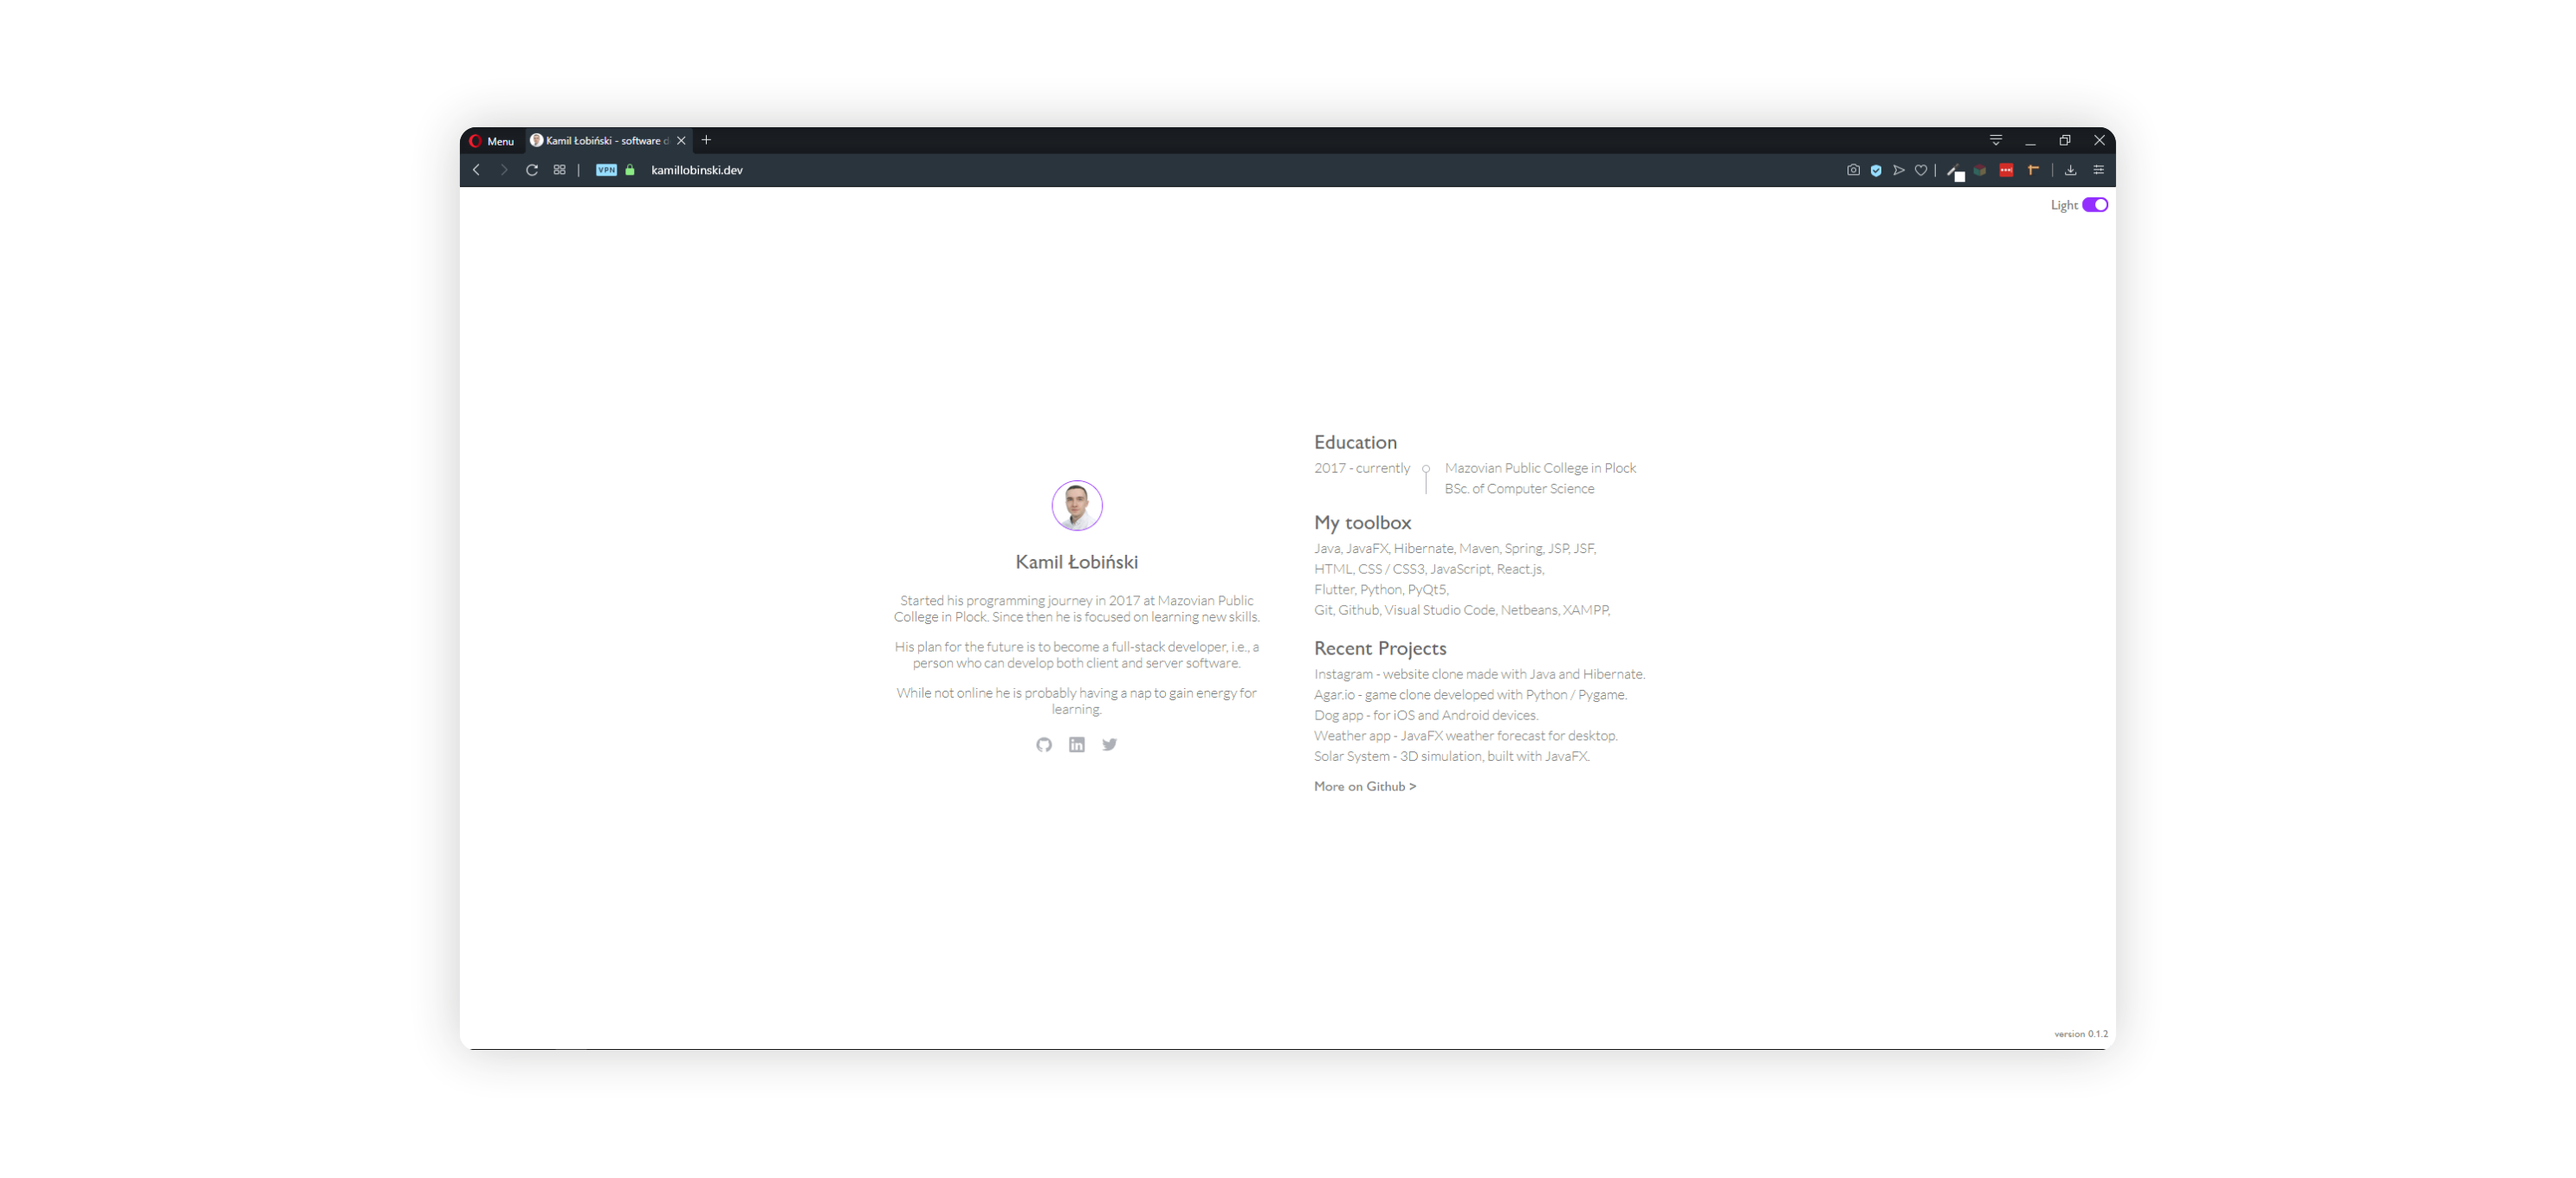
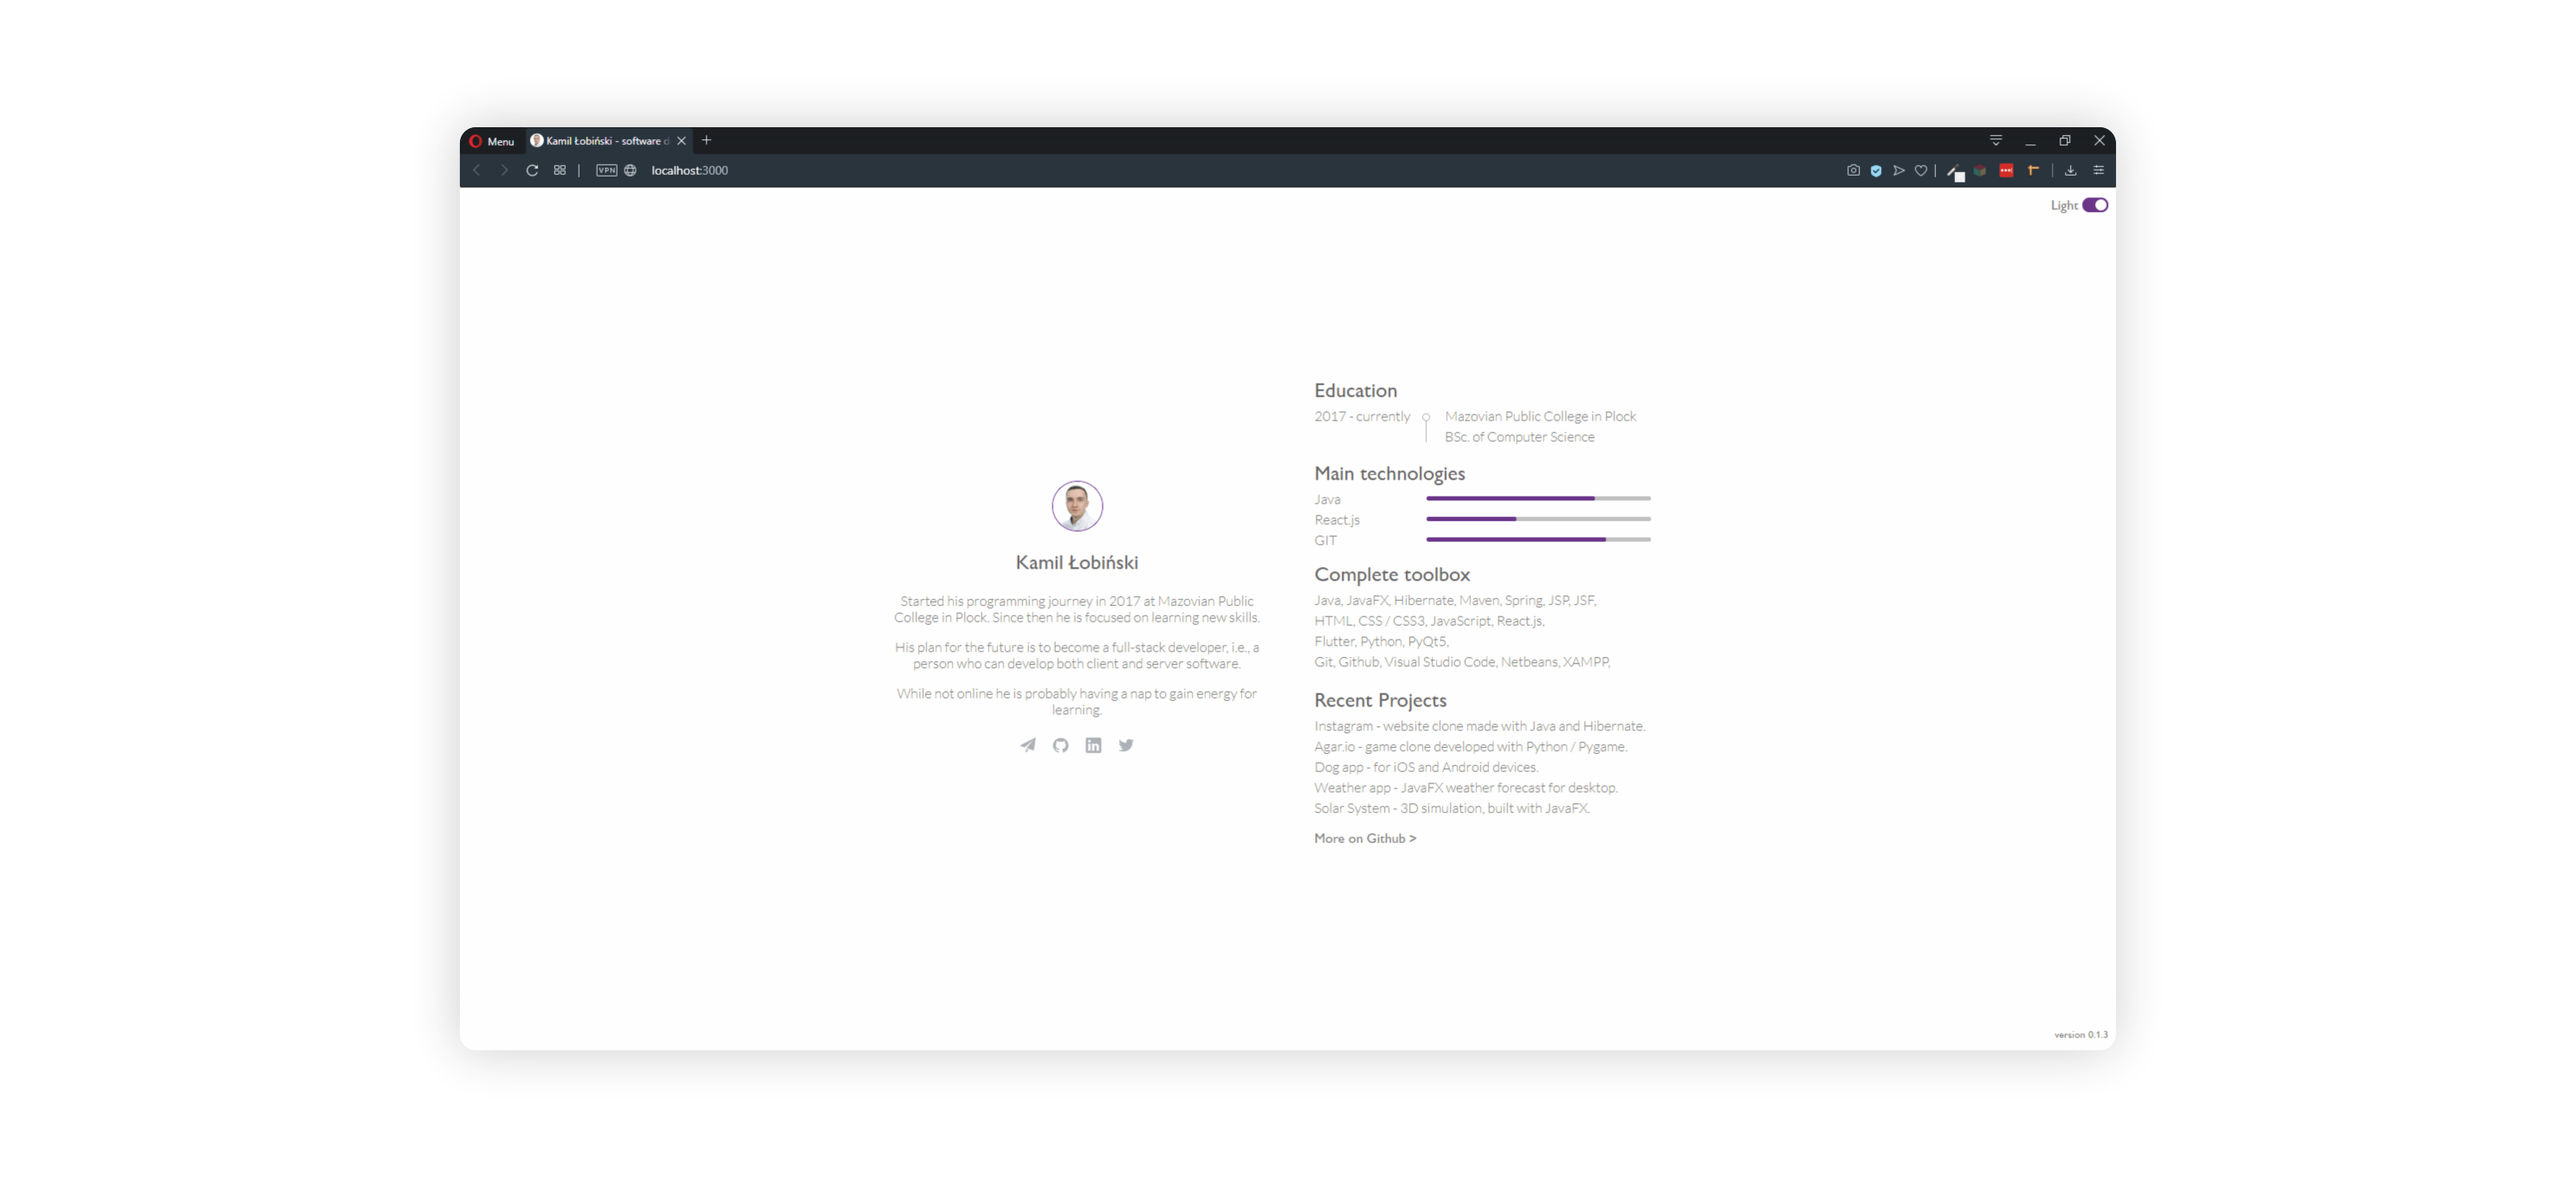
Added section for main technologies

diff --git a/src/components/Toolbox.js b/src/components/Toolbox.js
@@ -10,7 +10,7 @@ const toolboxItemFirst = [
   "Maven",
   "Spring",
   "JSP",
-  "JSF"
+  "JSF",
 ];
 const toolboxItemSecond = ["HTML", "CSS / CSS3", "JavaScript", "React.js"];
 const toolboxItemThird = ["Flutter", "Python", "PyQt5"];
@@ -19,7 +19,7 @@ const toolboxItemFourth = [
   "Github",
   "Visual Studio Code",
   "Netbeans",
-  "XAMPP"
+  "XAMPP",
 ];
 
 class Toolbox extends React.Component {
@@ -30,33 +30,33 @@ class Toolbox extends React.Component {
       toolboxItemFirst: toolboxItemFirst,
       toolboxItemSecond: toolboxItemSecond,
       toolboxItemThird: toolboxItemThird,
-      toolboxItemFourth: toolboxItemFourth
+      toolboxItemFourth: toolboxItemFourth,
     };
   }
 
   render() {
     return (
       <div className="toolbox">
-        <Title content="My toolbox" />
+        <Title content="Complete toolbox" />
 
         <p className="toolbox-item">
-          {this.state.toolboxItemFirst.map(item => (
+          {this.state.toolboxItemFirst.map((item) => (
             <Tool key={item} content={item} />
           ))}
         </p>
 
         <p className="toolbox-item">
-          {this.state.toolboxItemSecond.map(item => (
+          {this.state.toolboxItemSecond.map((item) => (
             <Tool key={item} content={item} />
           ))}
         </p>
         <p className="toolbox-item">
-          {this.state.toolboxItemThird.map(item => (
+          {this.state.toolboxItemThird.map((item) => (
             <Tool key={item} content={item} />
           ))}
         </p>
         <p className="toolbox-item">
-          {this.state.toolboxItemFourth.map(item => (
+          {this.state.toolboxItemFourth.map((item) => (
             <Tool key={item} content={item} />
           ))}
         </p>

diff --git a/src/components/TechnologyKnowledge.js b/src/components/TechnologyKnowledge.js
@@ -1,0 +1,33 @@
+import React from "react";
+import Title from "./Title";
+import Progressbar from "./ProgressBar";
+import "../style/TechnologyKnowledge.css";
+
+const technologyKnowledgeTitle = "Main technologies";
+var javaProgressbarValue = "75%";
+var reactProgressbarValue = "40%";
+var gitProgressbarValue = "80%";
+
+class TechnologyKnowledge extends React.Component {
+  render() {
+    return (
+      <div className="technology-knowledge">
+        <Title content={technologyKnowledgeTitle} />
+        <div className="technology-knowledge-item">
+          <span className="technology-knowledge-name">Java</span>
+          <Progressbar value={javaProgressbarValue} />
+        </div>
+        <div className="technology-knowledge-item">
+          <span className="technology-knowledge-name">React.js</span>
+          <Progressbar value={reactProgressbarValue} />
+        </div>
+        <div className="technology-knowledge-item">
+          <span className="technology-knowledge-name">GIT</span>
+          <Progressbar value={gitProgressbarValue} />
+        </div>
+      </div>
+    );
+  }
+}
+
+export default TechnologyKnowledge;

diff --git a/src/style/TechnologyKnowledge.css b/src/style/TechnologyKnowledge.css
@@ -1,0 +1,31 @@
+@import url("../utils/global.css");
+
+.technology-knowledge {
+  width: 430px;
+  margin-top: 18px;
+}
+
+.technology-knowledge-item {
+  display: flex;
+  align-items: center;
+  color: var(--text-color);
+  margin: 0;
+  margin-top: 5px;
+  font-size: 16px;
+  font-weight: 300;
+  font-family: "Lato", sans-serif;
+}
+
+.technology-knowledge-name {
+  width: 100%;
+  max-width: 100%;
+  overflow: hidden;
+  text-overflow: ellipsis;
+  white-space: nowrap;
+}
+
+@media only screen and (max-width: 500px) {
+  .technology-knowledge {
+    width: 90vw;
+  }
+}

diff --git a/src/style/Progressbar.css b/src/style/Progressbar.css
@@ -1,0 +1,31 @@
+.progressbar {
+  width: 100%;
+}
+
+.progressbar-back {
+  width: 260px;
+  height: 5px;
+  float: right;
+  margin-right: 40px;
+  border-radius: 4px;
+  background-color: var(--progress-color);
+  overflow: hidden;
+}
+
+.progressbar-fill {
+  width: 0;
+  height: 5px;
+  max-width: 100%;
+  border-radius: 4px;
+  background-color: var(--progress-fill);
+  animation: slidein 3s ease;
+}
+
+@keyframes slidein {
+  from {
+    width: 0;
+  }
+  to {
+    width: 100%;
+  }
+}

diff --git a/src/components/RightContent.js b/src/components/RightContent.js
@@ -1,5 +1,6 @@
 import React from "react";
 import Education from "./Education";
+import TechnologyKnowledge from "./TechnologyKnowledge";
 import Toolbox from "./Toolbox";
 import Projects from "./Projects.js";
 import Version from "./Version";
@@ -10,6 +11,7 @@ const RightContent = () => {
     <div className="right-content">
       <div className="right-content-inner">
         <Education />
+        <TechnologyKnowledge />
         <Toolbox />
         <Projects />
         <Version />

diff --git a/src/components/ProgressBar.js b/src/components/ProgressBar.js
@@ -1,0 +1,19 @@
+import React from "react";
+import "../style/Progressbar.css";
+
+const ProgressBar = (progressbar) => {
+  return (
+    <div className="progressbar">
+      <div className="progressbar-back">
+        <div
+          className="progressbar-fill"
+          style={{ width: progressbar.value, maxWidth: progressbar.value }}
+        >
+          {" "}
+        </div>
+      </div>
+    </div>
+  );
+};
+
+export default ProgressBar;

diff --git a/src/utils/global.css b/src/utils/global.css
@@ -4,6 +4,8 @@ html {
   --title-color: #ffffff;
   --text-color: #7a7c80;
   --ruler-color: #adb0b6;
+  --progress-color: #454955;
+  --progress-fill: #ffffff;
 }
 
 html[data-theme="light"] {
@@ -12,4 +14,6 @@ html[data-theme="light"] {
   --title-color: #666666;
   --text-color: #7a7c80;
   --ruler-color: #adb0b6;
+  --progress-color: #bfbfbf;
+  --progress-fill: #932eff;
 }

diff --git a/README.md b/README.md
@@ -23,6 +23,10 @@ A lightweight, single-page personal portfolio website built with React.
 
 ## Changelog
 
+### 0.0.3
+
+- Added new section with progress bars
+
 ### 0.1.2
 
 - Improved svg rendering
